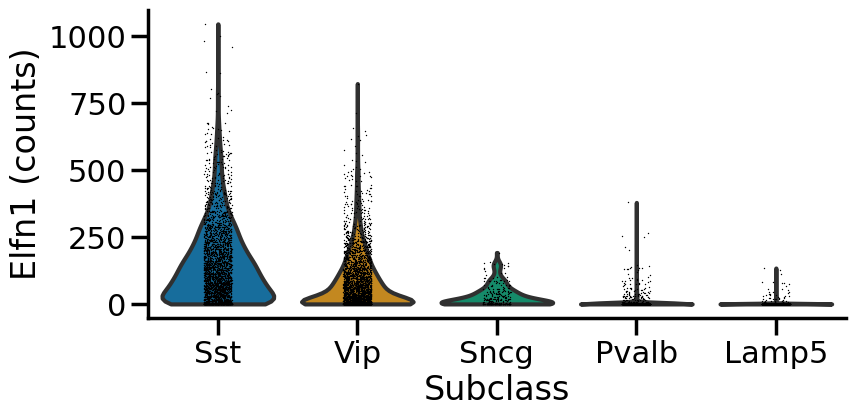
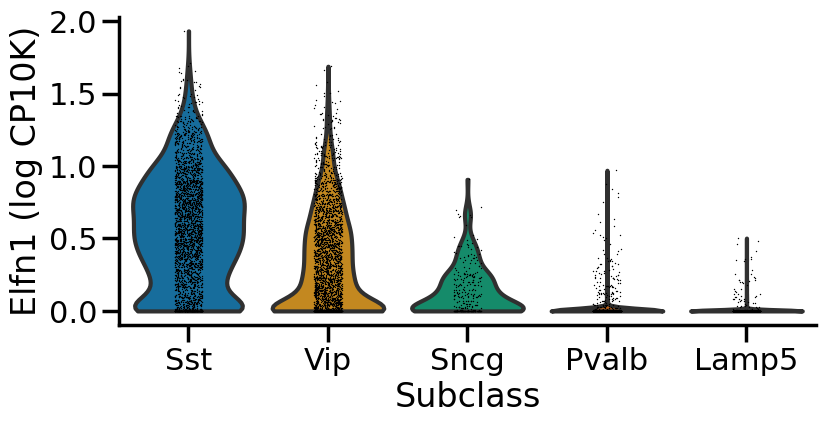
Adds other datasets to visualization

Changed region(s): [[0.0, 0.0312, 0.9988, 0.9664]]

diff --git a/scripts/elfn1_visualization.py b/scripts/elfn1_visualization.py
@@ -10,41 +10,47 @@ sc.settings.figdir = "./figures/"
 
 def main():
     seed = 1029
-    dataset = "tasic"
-    adata = ad.read_h5ad(f"./data/{dataset}.h5ad")
-    # Focus on 5 canonical mammalian classes. 
-    keep_subclasses = ['Pvalb', 'Sst', 'Lamp5', 'Sncg', 'Vip']
-    adata.obs['subclass'] = adata.obs['subclass'].astype("category")
-    # Merge Serpinf1 with Vip
-    adata.obs['subclass'] = adata.obs['subclass'].cat.remove_categories(['Serpinf1'])
-    adata.obs.loc[adata.obs['subclass'].isna(),'subclass'] = 'Vip'
-    # Remove Meis2
-    adata = adata[adata.obs['subclass']!='Meis2']
-    print(adata.obs['subclass'].cat.categories)
-    # Order by Elfn1 expression in mice
-    adata.obs['subclass'] = adata.obs['subclass'].cat.reorder_categories(['Sst', 'Vip', 'Sncg', 'Pvalb', 'Lamp5'])
+    for dataset in ['tosches', 'colquitt', 'tasic', 'bakken']:
+        print(f"Processing {dataset}")
+        adata = ad.read_h5ad(f"./data/{dataset}_raw.h5ad")
+        # Focus on 5 canonical mammalian classes. 
+        keep_subclasses = ['Pvalb', 'Sst', 'Lamp5', 'Sncg', 'Vip']
+        adata.obs['subclass'] = adata.obs['subclass'].astype("category")
+        # Merge Serpinf1 with Vip
+        if 'Serpinf1' in adata.obs['subclass'].cat.categories:
+            adata.obs['subclass'] = adata.obs['subclass'].cat.remove_categories(['Serpinf1'])
+            adata.obs.loc[adata.obs['subclass'].isna(),'subclass'] = 'Vip'
+        # Remove Meis2
+        extra_categories = [subclass for subclass in adata.obs['subclass'].cat.categories if subclass not in keep_subclasses]
+        #for subclass in extra_categories:
+        adata = adata[~adata.obs['subclass'].isin(extra_categories)]
+        missing_categories = [subclass for subclass in keep_subclasses if subclass not in adata.obs['subclass'].cat.categories]
+        adata.obs['subclass'] = adata.obs['subclass'].cat.add_categories(missing_categories)
+        print(adata.obs['subclass'].cat.categories)
+        # Order by Elfn1 expression in mice
+        adata.obs['subclass'] = adata.obs['subclass'].cat.reorder_categories(['Sst', 'Vip', 'Sncg', 'Pvalb', 'Lamp5'])
 
-   # Violin plot Elfn1
-    fig, ax = plt.subplots(figsize=(9,4))
-    sns.despine()
-    sc.pl.violin(adata, "Elfn1", "subclass", ax=ax, ylabel = "Elfn1 (counts)", xlabel = "Subclass",
-                save=f"_{dataset}.png", show=False)
+        # Normalize
+        sc.pp.normalize_total(adata, 1e4)
+        sc.pp.log1p(adata)
+        # Violin plot Elfn1
+        fig, ax = plt.subplots(figsize=(9,4))
+        sns.despine()
+        sc.pl.violin(adata, "Elfn1", "subclass", ax=ax, ylabel = "Elfn1 (log CP10K)", xlabel = "Subclass",
+                    save=f"_{dataset}.png", show=False)
 
-    # Normalize
-    sc.pp.normalize_total(adata, 1e4)
-    sc.pp.log1p(adata)
-    # PCA on HVGs
-    sc.pp.highly_variable_genes(adata)
-    sc.pp.pca(adata, random_state = seed)
-    # UMAP
-    sc.pp.neighbors(adata, random_state = seed)
-    sc.tl.umap(adata, random_state = seed)
+        # PCA on HVGs
+        sc.pp.highly_variable_genes(adata)
+        sc.pp.pca(adata, random_state = seed)
+        # UMAP
+        sc.pp.neighbors(adata, random_state = seed)
+        sc.tl.umap(adata, random_state = seed)
 
-    # Visualize UMAP
-    sc.pl.umap(adata, color='subclass', legend_loc='on data', show=False,
-            frameon=False, title='Subclass', save=f"_subclass_{dataset}.png")
-    sc.pl.umap(adata, color='Elfn1', legend_loc='on data', show = False,
-            frameon=False, title='Elfn1', save=f"_elfn1_{dataset}.png")
+        # Visualize UMAP
+        sc.pl.umap(adata, color='subclass', legend_loc='on data', show=False,
+                frameon=False, title='Subclass', save=f"_subclass_{dataset}.png")
+        sc.pl.umap(adata, color='Elfn1', legend_loc='on data', show = False,
+                frameon=False, title='Elfn1', save=f"_elfn1_{dataset}.png")
 
 
 if __name__ == "__main__":
